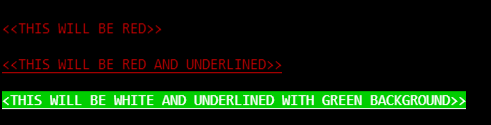
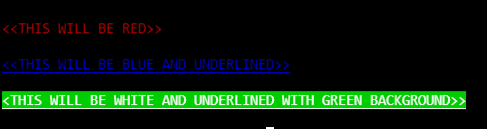
image corrected

diff --git a/README.md b/README.md
@@ -17,7 +17,7 @@ const {colouredText} = require('@badcj/colours');
 
 console.log( colouredText().red("<<THIS WILL BE RED>>") );
 
-console.log( colouredText().red("<<THIS WILL BE RED AND UNDERLINED>>",['Underscore']) );
+console.log( colouredText().blue("<<THIS WILL BE BLUE AND UNDERLINED>>",['Underscore']) );
 
 console.log( colouredText().red("<THIS WILL BE WHITE AND UNDERLINED WITH GREEN BACKGROUND>>",['Underscore','Green']) );
 
